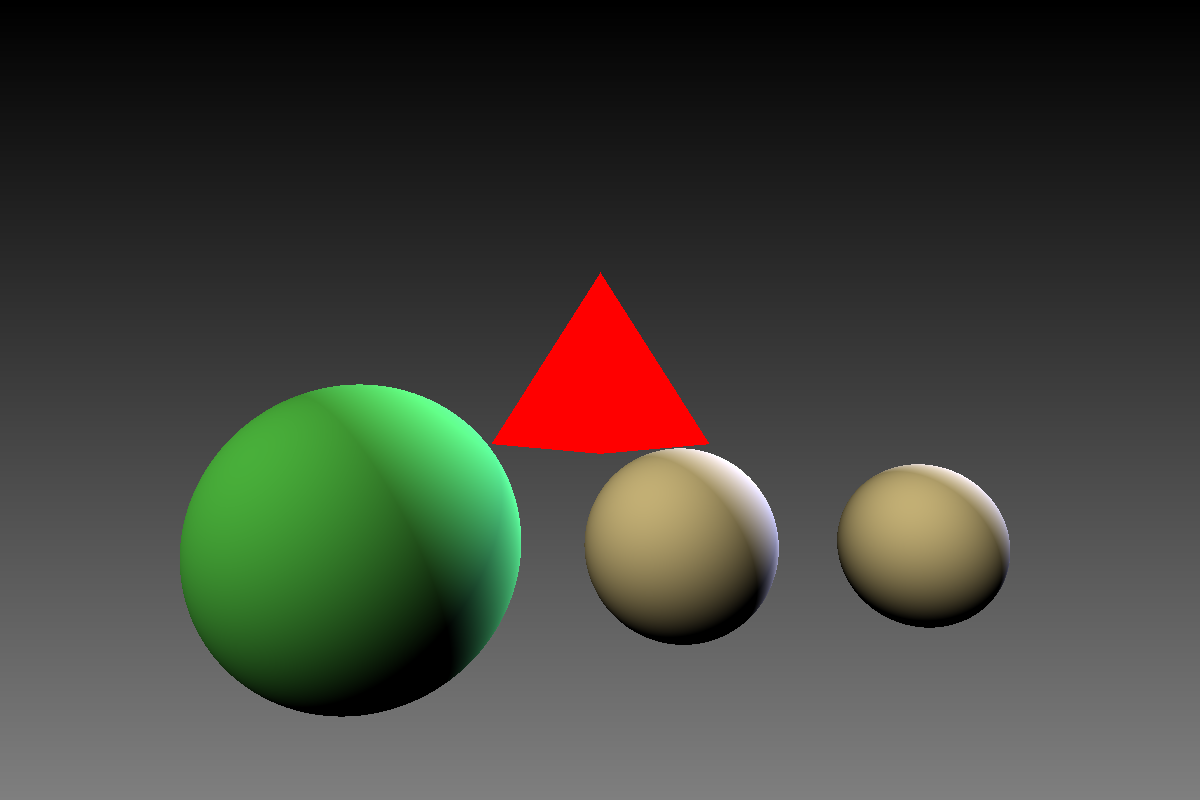
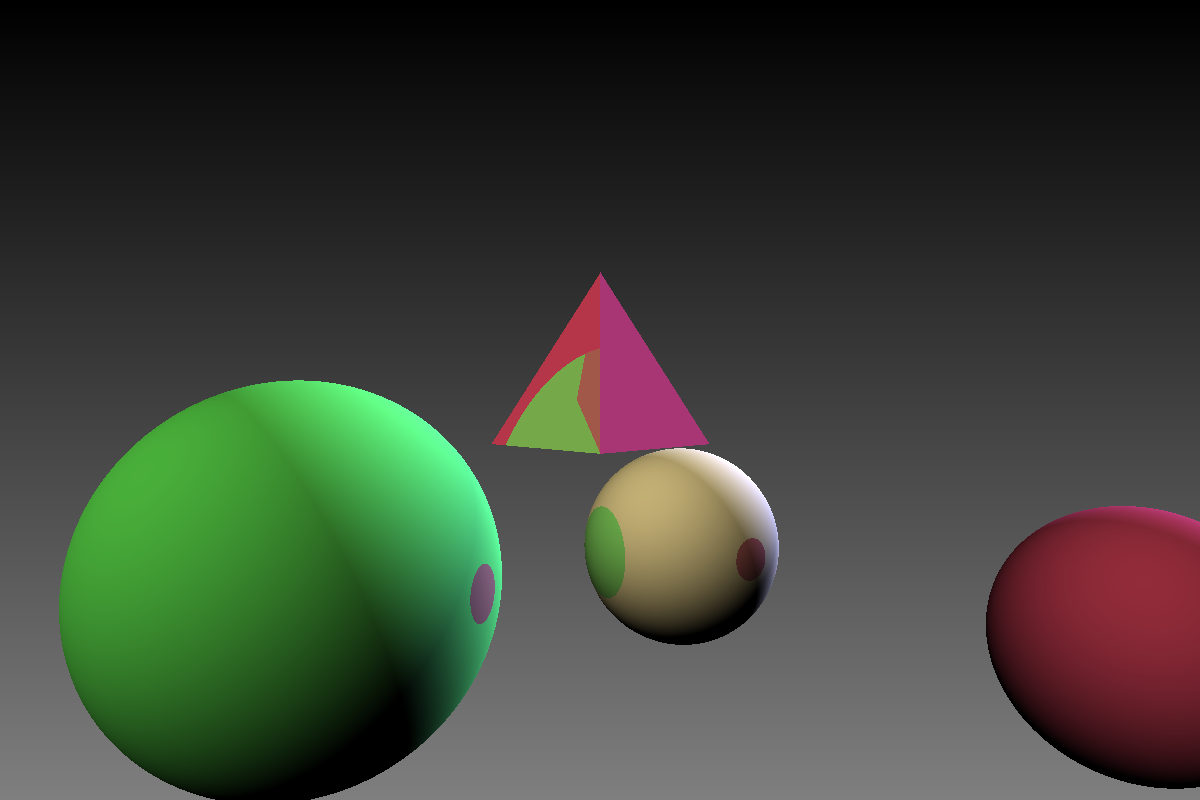
Reflection - kinda, I guess

diff --git a/render/render.go b/render/render.go
@@ -5,6 +5,7 @@ import (
 	. "GoPath/core"
 	"GoPath/geometry"
 	"GoPath/util"
+	"fmt"
 	"image"
 	"math"
 )
@@ -16,7 +17,7 @@ func Render(objectArray []geometry.Geometry, cam_or Vec, WIDTH, HEIGHT int, file
 	var ray Ray
 	var intersect bool
 	var t float64
-
+	var progress int
 	//HARDCODED LIGHTS
 
 	lights := []Light{
@@ -25,7 +26,15 @@ func Render(objectArray []geometry.Geometry, cam_or Vec, WIDTH, HEIGHT int, file
 	}
 
 	//Loop through whole Image
+	pMax := 0
 	for x := 0; x < WIDTH; x++ {
+		//print Progress every 5% TODO - change to every 5 seconds
+		progress = int(float32(x) / float32(WIDTH) * 100)
+		if progress > pMax+4 {
+			fmt.Println("Rendering", progress, "%")
+			pMax = progress
+		}
+
 		for y := 0; y < HEIGHT; y++ {
 
 			//Map X and Y from -0.5 to 0.5 and respect Aspect Ratio 1- for correct rotation
@@ -65,11 +74,35 @@ func Render(objectArray []geometry.Geometry, cam_or Vec, WIDTH, HEIGHT int, file
 				}
 			}
 
-			if intersect == true {
+			if intersect {
 				HitPoint := ray.O.Add(ray.D.Multiply(tMin))
 				Normal := objectArray[ObjectHitIndex].Normal(ray, HitPoint)
 
 				col = Diffuse(cObj, lights, HitPoint, Normal)
+
+				//Reflection
+				specRay := Ray{HitPoint, Normal}
+
+				intersectSpec := false
+				for i, currentObject := range objectArray {
+					//Check for intersection in every Object
+					if currentObject.Intersect(specRay, &t) {
+						intersectSpec = true
+						//check if new t is smaller then old tmin and set tmin to new t if it is
+						tminOld := tMin
+
+						if t < tminOld {
+							tMin = t
+							//what Object got hit
+							ObjectHitIndex = i
+							cObj = currentObject
+						}
+						if intersectSpec && cObj != currentObject {
+							difSpec := Diffuse(currentObject, lights, HitPoint, Normal)
+							col = color.Mix(col, difSpec, 0.7)
+						}
+					}
+				}
 
 				col.Clamp()
 			}

diff --git a/main.go b/main.go
@@ -19,8 +19,8 @@ func main() {
 	cam_or := Vec{-5, 0, 0}
 	//cam_dir := Vec{-1,0,0}.Normalized() // - TODO
 	sp1 := geometry.NewSphere(Vec{0, -0.5, -0.9}, 0.6)
-	sp2 := geometry.NewSphere(Vec{0, 1.5, -0.9}, 1)
-	sp3 := geometry.NewSphere(Vec{0, -2, -0.9}, 0.5)
+	sp2 := geometry.NewSphere(Vec{-1, 1.5, -0.9}, 1)
+	sp3 := geometry.NewSphere(Vec{-2, -2, -0.9}, 0.5)
 
 	sp2.SetMaterial(material.StandardMaterial{
 		Color:     color.Color32{0.3, 0.8, 0.4},
@@ -39,6 +39,14 @@ func main() {
 	tri2 := geometry.NewTri(v4, v2, v1)
 	tri3 := geometry.NewTri(v2, v3, v4)
 	tri4 := geometry.NewTri(v1, v3, v4)
+
+	mTri := material.StandardMaterial{Color: color.Color32{0.6, 0.2, 0.4}}
+
+	tri1.SetMaterial(mTri)
+	tri2.SetMaterial(mTri)
+	tri3.SetMaterial(mTri)
+	tri4.SetMaterial(mTri)
+	sp3.SetMaterial(mTri)
 
 	ObArray := []geometry.Geometry{sp1, sp2, sp3, tri1, tri2, tri3, tri4}
 

diff --git a/geometry/tri.go b/geometry/tri.go
@@ -65,10 +65,10 @@ func (tri Tri) Intersect(ray Ray, t *float64) bool {
 	return true
 }
 
-func (T Tri) SetMaterial(mat material.Material) {
+func (T *Tri) SetMaterial(mat material.Material) {
 	T.material = mat
 }
 
-func (T Tri) Material() material.Material {
+func (T *Tri) Material() material.Material {
 	return T.material
 }

diff --git a/color/blendmodes.go b/color/blendmodes.go
@@ -25,3 +25,10 @@ func Add(c1, c2 Color32) Color32 {
 func Subtract(c1, c2 Color32) Color32 {
 	return Color32{c1.R - c2.R, c1.G - c2.G, c1.B - c2.G}
 }
+
+func Mix(c1, c2 Color32, fac float32) Color32 {
+	return Color32{
+		(1-fac)*c1.R + fac*c2.R,
+		(1-fac)*c1.G + fac*c2.G,
+		(1-fac)*c1.B + fac*c2.B}
+}

diff --git a/material/material.go b/material/material.go
@@ -1,6 +1,8 @@
 package material
 
-import "GoPath/color"
+import (
+	"GoPath/color"
+)
 
 type Material interface {
 	BaseColor() color.Color32
@@ -12,6 +14,7 @@ type Diffuse struct {
 }
 
 func (D Diffuse) BaseColor() color.Color32 {
+	//TODO
 	return color.Color32{1, 0, 0}
 }
 

diff --git a/README.md b/README.md
@@ -1,5 +1,5 @@
 **Simple Raytracer in Go**  
-Cant do anything but render spheres with surface Normals at the moment.
+Can render spheres with Diffuse and multiple Lights, more to come.
 
 ![01](testimage.png)
 *testimage*
